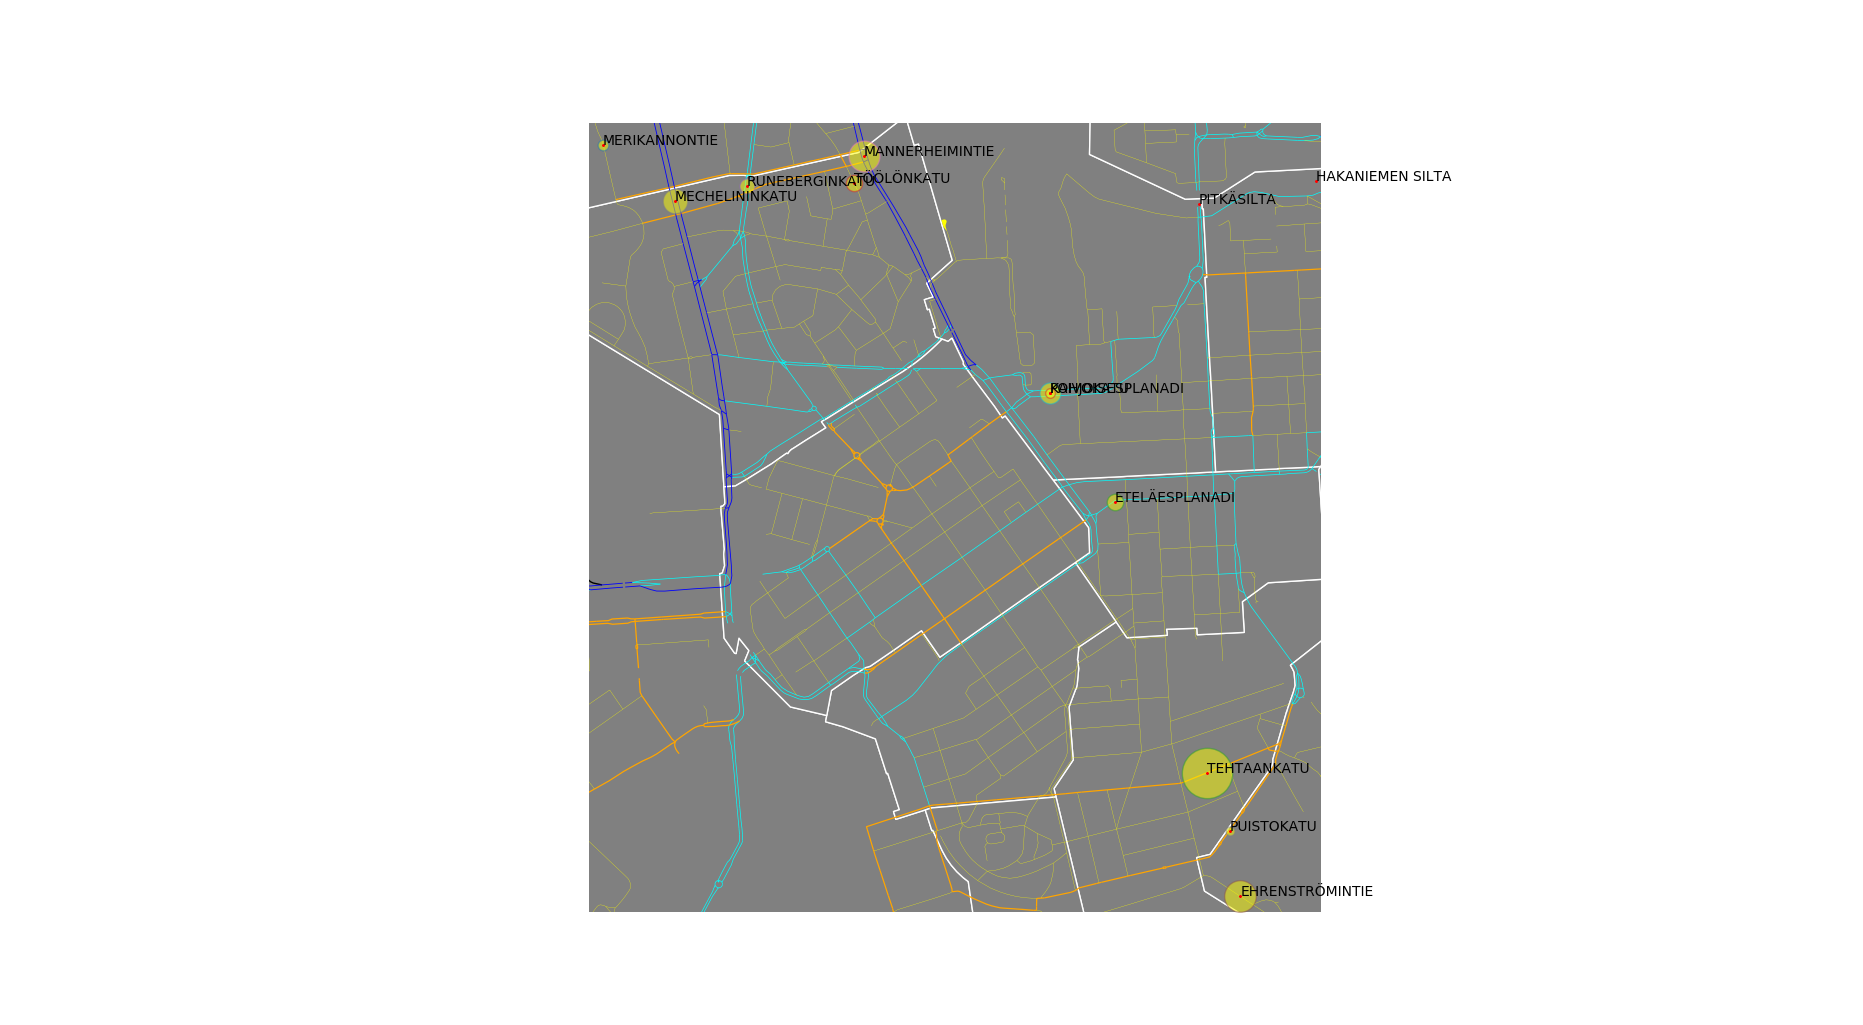
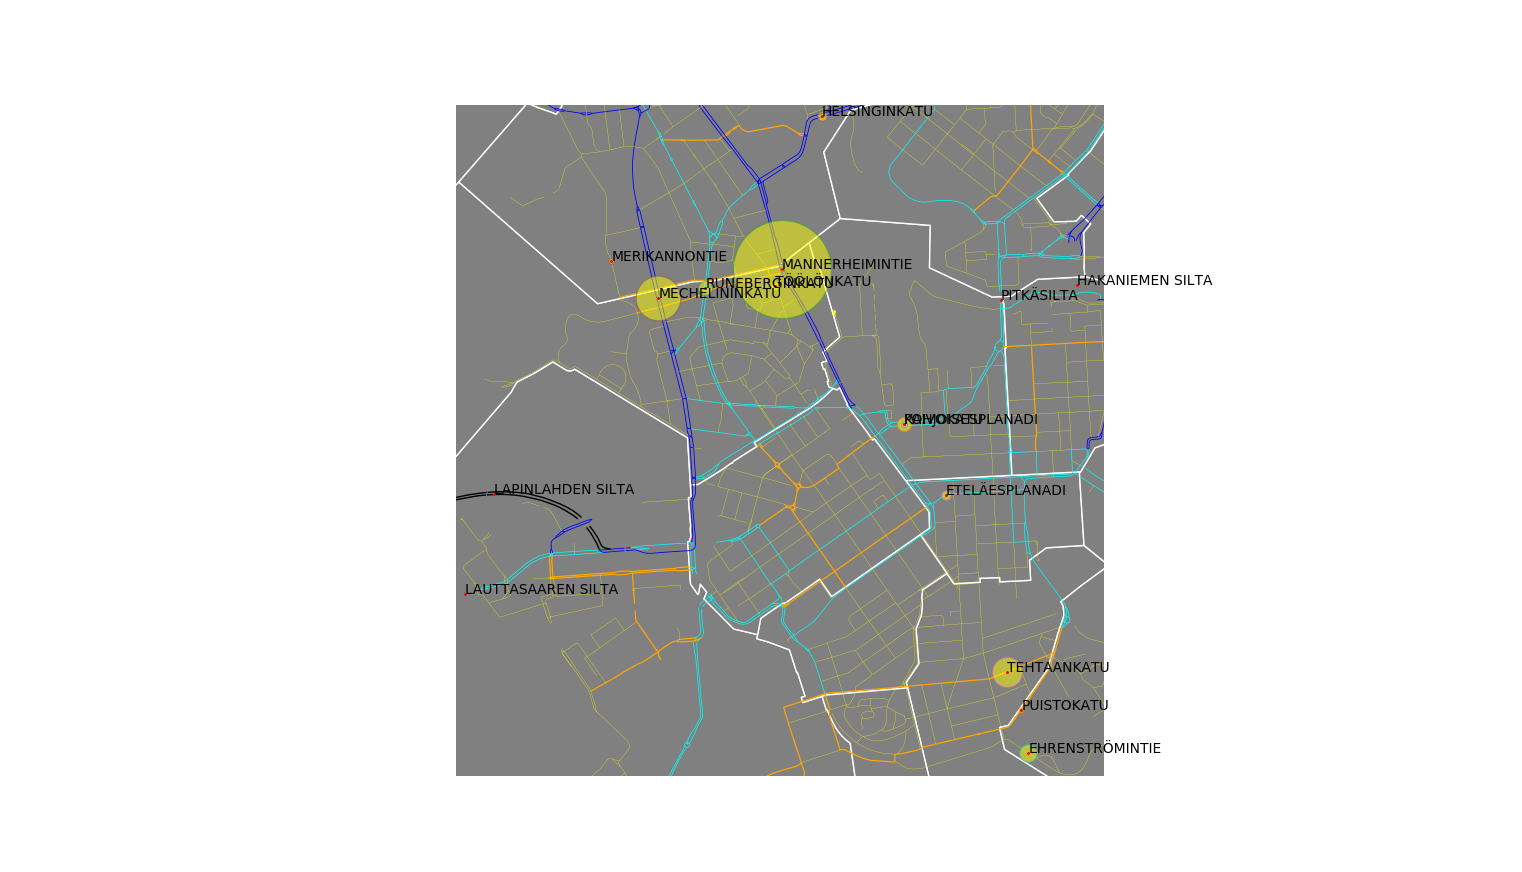
re-ran plotting and GIS

Changed region(s): [[0.2779, 0.0929, 0.8029, 0.8979]]

diff --git a/9_mapping.py b/9_mapping.py
@@ -101,7 +101,7 @@ def main():
     gpd_dict = read_em()
     gpd_dict['points'] = points_and_accident_ratio_sum
 
-    plot_em(gpd_dict)
+    plot_em(gpd_dict, show_names=False)
 
     # plt.savefig('./data/figures/5_measurement_points.png'
     #             , format='png', bbox_inches='tight', dpi=500)
